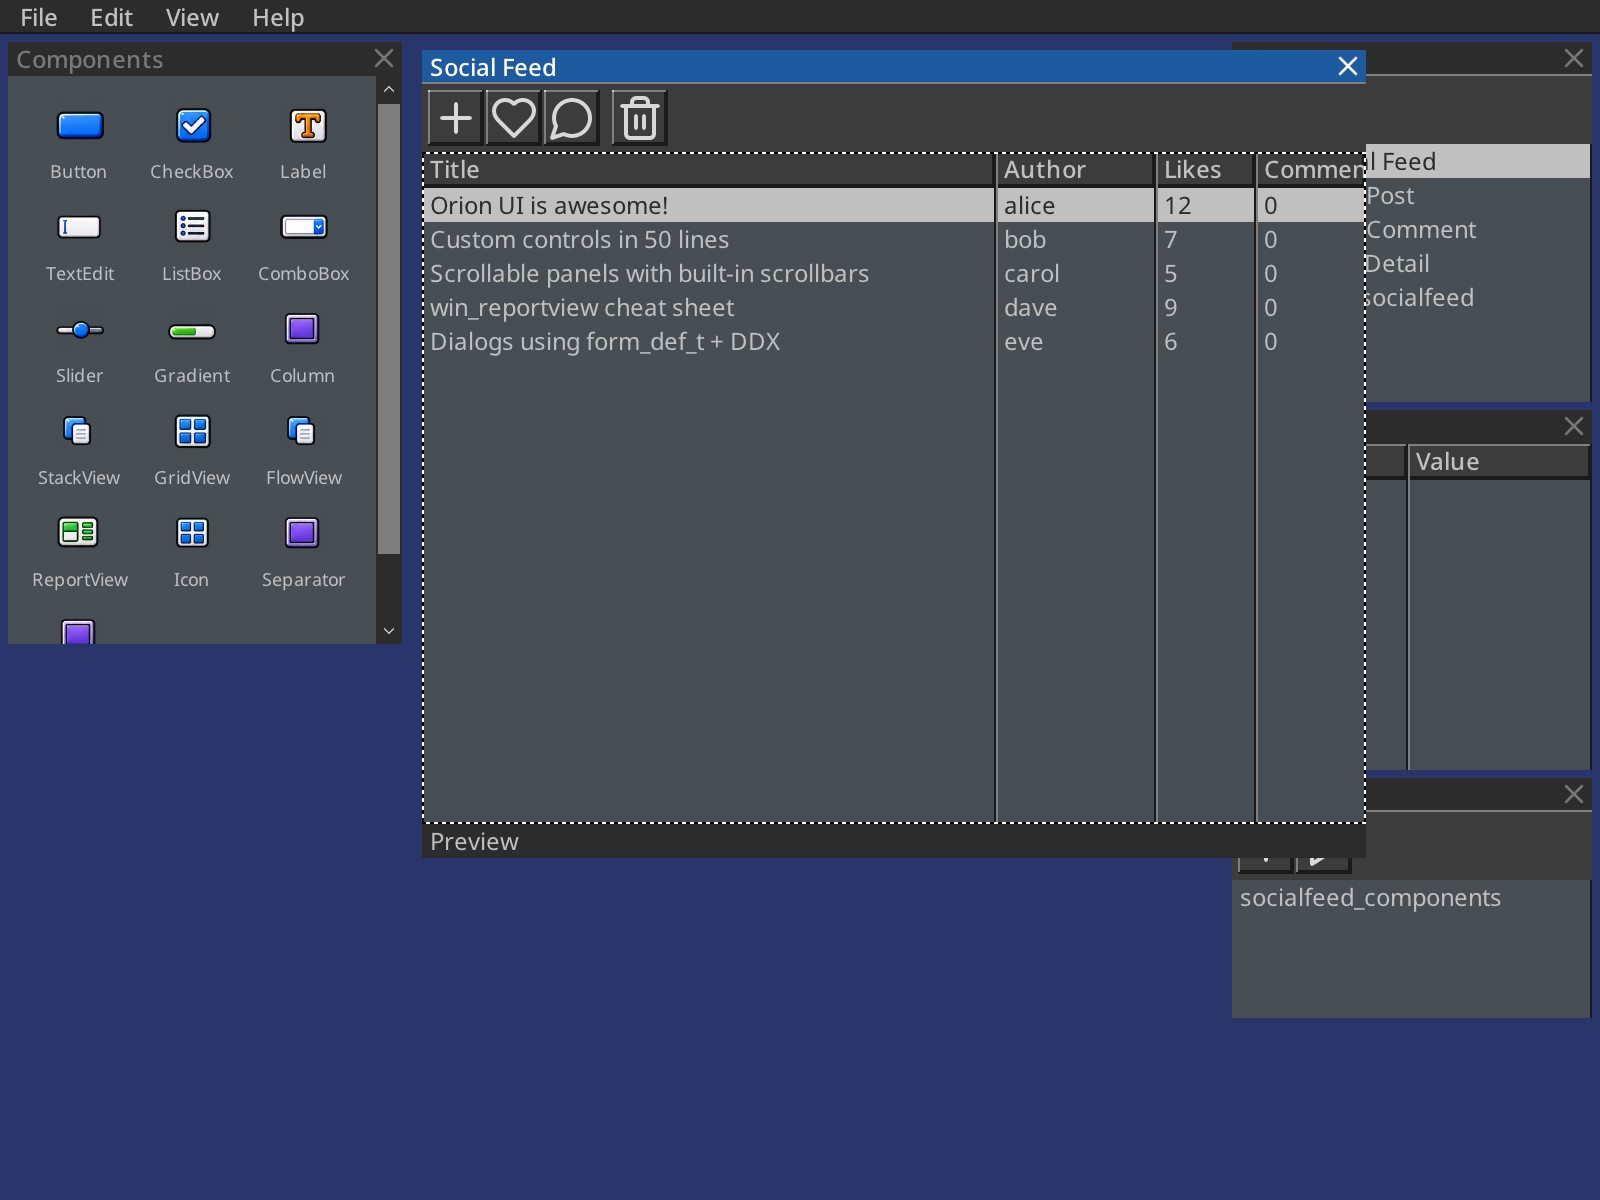
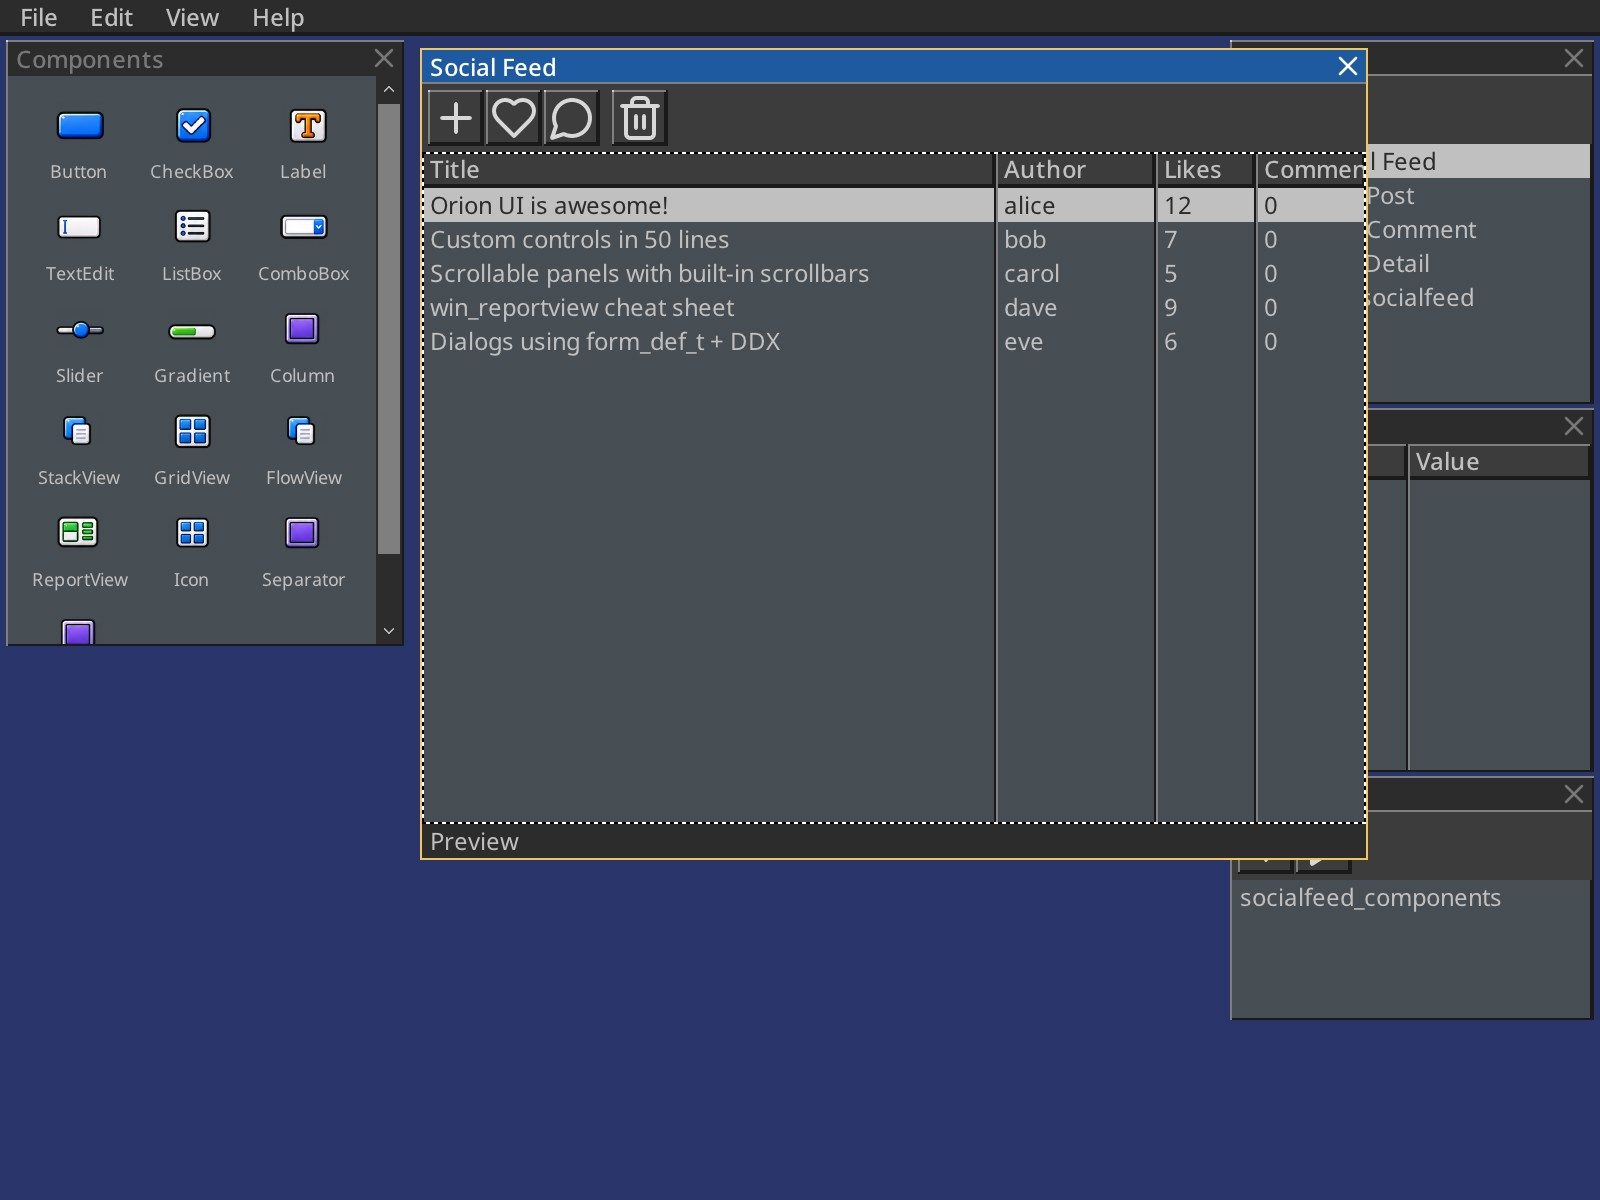
Restore Classic window border around composited surfaces

diff --git a/tests/theme_paint_test.c b/tests/theme_paint_test.c
@@ -94,6 +94,29 @@ static void test_translated_separator(void) {
   PASS();
 }
 
+static void test_classic_window_border(void) {
+  TEST("Classic paints a bevel outside inactive windows and an accent border outside focused windows");
+  theme_t *classic = paint_classic_instance();
+  classic->apply_palette();
+  irect16_t frame = R(10, 10, 80, 30);
+  memset(pixels, 0, sizeof(pixels));
+  classic->draw_part(THEME_PART_WINDOW_BORDER, frame, CTRL_NORMAL);
+  ASSERT_EQUAL(pixels[9][50], get_sys_color(brLightEdge));
+  ASSERT_EQUAL(pixels[25][9], get_sys_color(brLightEdge));
+  ASSERT_EQUAL(pixels[25][90], get_sys_color(brDarkEdge));
+  ASSERT_EQUAL(pixels[40][50], get_sys_color(brDarkEdge));
+  ASSERT_EQUAL(pixels[25][50], 0);
+  memset(pixels, 0, sizeof(pixels));
+  classic->draw_part(THEME_PART_WINDOW_BORDER, frame, CTRL_FOCUSED);
+  ASSERT_EQUAL(pixels[9][50], get_sys_color(brAccent));
+  ASSERT_EQUAL(pixels[25][90], get_sys_color(brAccent));
+  ASSERT_EQUAL(pixels[25][50], 0);
+  memset(pixels, 0, sizeof(pixels));
+  paint_modern_instance()->draw_part(THEME_PART_WINDOW_BORDER, frame, CTRL_FOCUSED);
+  ASSERT_EQUAL(pixels[9][50], 0);
+  PASS();
+}
+
 static void test_independent_parts(void) {
   TEST("Modern dropdowns match field bounds and fills in every state");
   theme_t *theme = paint_with_theme(THEME_NAVY);
@@ -338,6 +361,7 @@ int main(void) {
   test_button_capsules();
   test_modern_button_states();
   test_translated_separator();
+  test_classic_window_border();
   test_independent_parts();
   test_modern_slider_track_contrasts();
   test_flat_tool_items();

diff --git a/orion/user/theme_classic.c b/orion/user/theme_classic.c
@@ -66,8 +66,6 @@ static void classic_draw_toolbar_separator(irect16_t r) {
 
 static void classic_draw_panel_bg(irect16_t r) {
   fill_rect(get_sys_color(brControlBg), r);
-  classic_draw_bevel(r);
-
 }
 
 // ── Titlebar ─────────────────────────────────────────────────────────────────
@@ -247,7 +245,11 @@ static void classic_draw_part(theme_part_t part, irect16_t r, ctrl_state_t state
       fill_rect(get_sys_color(brControlBg), r);
       classic_draw_bevel(r);
       break;
-    case THEME_PART_PANEL_BORDER:        classic_draw_bevel(r); break;
+    case THEME_PART_PANEL_BORDER:        break;
+    case THEME_PART_WINDOW_BORDER:
+      if (state & CTRL_FOCUSED) draw_wire_rect(r, 1, get_sys_color(brAccent));
+      else classic_draw_bevel(r);
+      break;
     case THEME_PART_TOOLBAR:
       fill_rect(get_sys_color(brControlBg), r);
       classic_draw_bevel(r);

diff --git a/orion/user/theme_modern.c b/orion/user/theme_modern.c
@@ -276,6 +276,7 @@ static void modern_draw_part(theme_part_t part, irect16_t r, ctrl_state_t state)
     case THEME_PART_TAB_BAR:             fill_rect(get_sys_color(brPanelDarker), r); break;
     case THEME_PART_TAB_PANE:            fill_rect(get_sys_color(brControlBg), r); break;
     case THEME_PART_PANEL_BORDER:        break;
+    case THEME_PART_WINDOW_BORDER:       break;
     case THEME_PART_TOOLBAR:
       fill_rect(get_sys_color(brPanelDarker), r);
       break;

diff --git a/orion/user/draw_impl.c b/orion/user/draw_impl.c
@@ -424,6 +424,9 @@ void composite_root_windows(void) {
                       (irect16_t){w->frame.x, w->frame.y, w->frame.w, w->frame.h},
                       w->surface_w, w->surface_h,
                       radius, 1.0f);
+    if (!w->maximized && !(w->flags & WINDOW_TRANSPARENT))
+      theme_draw(THEME_PART_WINDOW_BORDER, w->frame,
+                 window_has_focus(w) ? CTRL_FOCUSED : CTRL_NORMAL);
   }
 
   glDisable(GL_BLEND);

diff --git a/orion/user/theme.h b/orion/user/theme.h
@@ -134,6 +134,7 @@ typedef enum {
   THEME_PART_TOOLBAR_GRIP,
   THEME_PART_PANEL,
   THEME_PART_PANEL_BORDER,
+  THEME_PART_WINDOW_BORDER,
   THEME_PART_RESIZE_GRIP,
   THEME_PART_TITLEBAR,
   THEME_PART_WINDOW_CLOSE,
